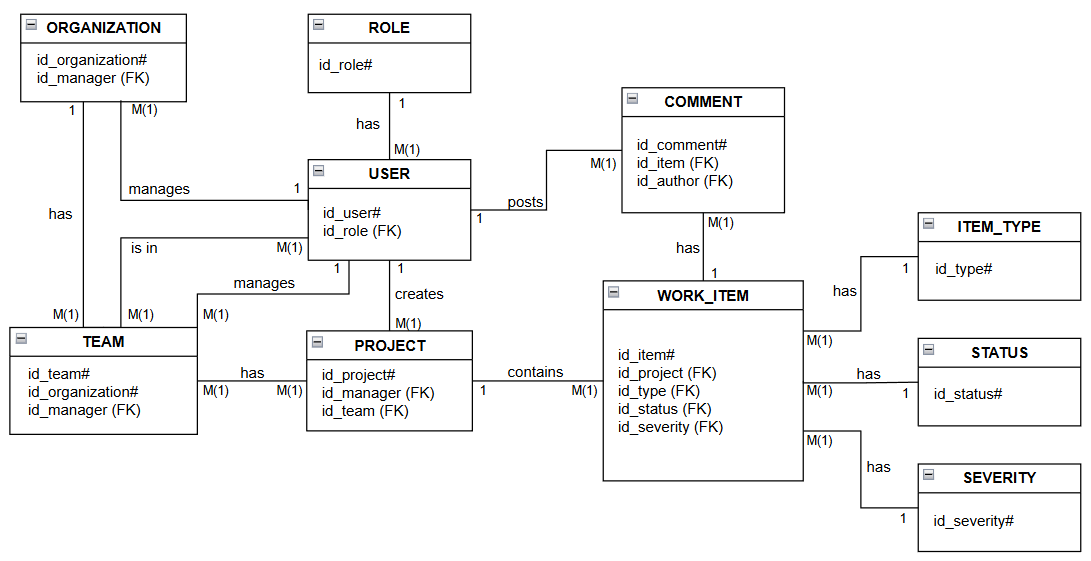
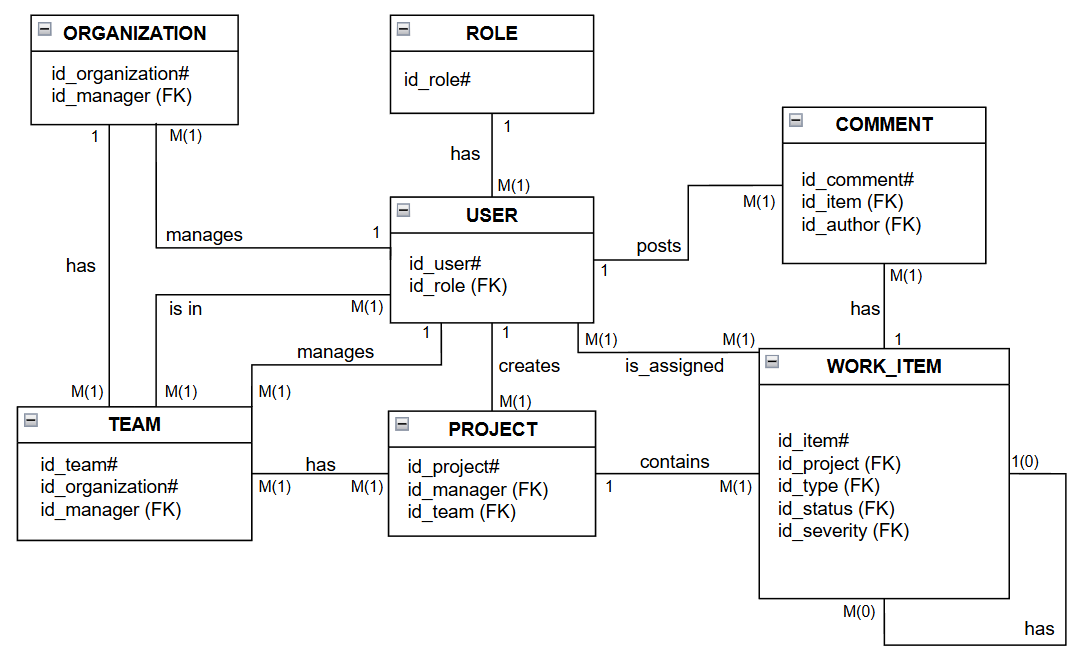
[FEAT] Update ER Diagram

Changed region(s): [[0.0, 0.0, 1.0, 1.0], [0.0308, 0.3636, 0.0923, 0.4242], [0.4613, 0.5455, 0.5228, 0.5758]]

diff --git a/nomenclator/src/main/java/flowmanager/nomenclator/model/WorkItem.java b/nomenclator/src/main/java/flowmanager/nomenclator/model/WorkItem.java
@@ -56,9 +56,9 @@ public class WorkItem {
 
     @ManyToMany
     @JoinTable(
-            name = "work_item_assignments",
+            name = "work_item_assignment",
             joinColumns = @JoinColumn(name = "work_item_id"),
-            inverseJoinColumns = @JoinColumn(name = "user_id9")
+            inverseJoinColumns = @JoinColumn(name = "user_id")
     )
     private List<User> assignees;
 
